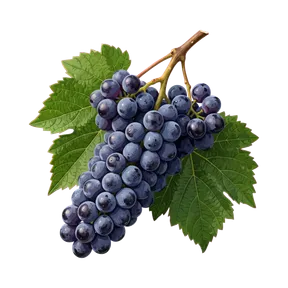
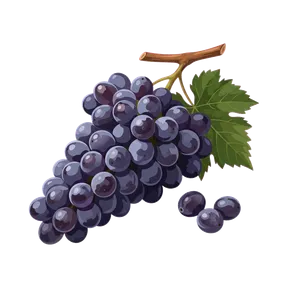
fix: 포도·샤인머스캣 재생성 — 96px에서 고추로 읽히던 실루엣
둘 다 아래로 뾰족해지는 송이라, 96px에서 알이 뭉개지면 실루엣만 남아 꼬투리처럼
보였다. 연두색인 shine-muscat이 특히 그랬다 — 채소 세트에 green-chili가 있어
단순 미감 문제가 아니라 혼동군이었다.

슬롯을 고쳤다(고정 6블록은 동결 유지): 어깨가 넓은 송이 · 알이 개별로 읽히게 ·
낱알 셋을 옆에 · 잎 2장 → 1장. 낱알을 옆에 두는 건 부록 A가 이미 쓰는 장치다
(mandarin의 깐 조각, kiwi의 반쪽). 색은 안 건드려 §6의 구분(흑자+분 vs 연두+투명)이
그대로다. 결과: 96px에서 green-chili·cucumber와 형태가 확실히 갈린다.

**앵커 첨부 경로를 찾았다.** 처음엔 앵커 없이 새 채팅에서 뽑았더니 알마다 검은
외곽선에 3~4단계 평면으로 나왔다 — 프롬프트가 금지한 outline stroke이고, 요구한
20~40단계가 아니라 탈락안이던 인쇄 도판(8~12단계) 쪽이다. 형태는 고쳤지만 화풍이
어긋나 세트가 깨질 뻔했다.

스펙 §5.2는 처음부터 "매 생성마다 앵커를 레퍼런스로 첨부"를 지시했는데 파일 업로드
도구가 막혀 못 했다(파일 입력이 접근성 트리에 없다). osascript로 PNG를 클립보드에
올려 작성창에 붙여넣으면 첨부된다 — peach 앵커를 첨부하고 같은 프롬프트로 다시 뽑으니
외곽선 없이 20~40단계로, 기존 42장과 같은 결이 나왔다. 방법을 노트에 적었다.

함께 기록: 긴 대화(40턴·40장)는 새 프롬프트를 조용히 삼킨다(에디터만 비워지고 응답
없음). 그리고 그런 대화에서는 JS 삽입·클릭이 먹지 않아 클립보드 붙여넣기 + 실제
마우스 클릭으로 바꿨다.

스펙 부록 A·프롬프트 노트의 해당 2행도 새 슬롯으로 갱신했다.

diff --git a/docs/superpowers/notes/2026-08-22-produce-image-prompts.md b/docs/superpowers/notes/2026-08-22-produce-image-prompts.md
@@ -250,8 +250,9 @@ Square 1:1, at least 1024 × 1024, PNG.
 
 ```
 Subject
-one whole bunch of Campbell Early grapes — with the woody stem and two vine leaves. Korean
-market produce, 포도.
+one broad-shouldered bunch of Campbell Early grapes with three loose berries beside it —
+with a short woody stem and one vine leaf tucked behind, the individual round berries
+clearly separated rather than merging into one mass. Korean market produce, 포도.
 
 Style
 High-fidelity vector trace of a photograph — 20 to 40 tonal steps per material, so
@@ -297,8 +298,9 @@ Square 1:1, at least 1024 × 1024, PNG.
 
 ```
 Subject
-one whole bunch of Shine Muscat grapes — with the woody stem and one vine leaf. Korean
-market produce, 샤인머스캣.
+one broad-shouldered bunch of Shine Muscat grapes with three loose berries beside it —
+with a short woody stem and one vine leaf tucked behind, the individual oval berries
+clearly separated rather than merging into one mass. Korean market produce, 샤인머스캣.
 
 Style
 High-fidelity vector trace of a photograph — 20 to 40 tonal steps per material, so
@@ -3252,3 +3254,20 @@ Square 1:1, at least 1024 × 1024, PNG.
 - 새 채팅엔 이전 이미지 문맥이 없다. 파일 업로드가 도구로 안 되므로(파일 입력이
   접근성 트리에 없다) **해당 배치의 앵커를 첫 장으로 한 번 생성해** 대화 안에 화풍
   기준을 세웠다. 수산·축산 모두 이 방식으로 기존 장들과 같은 결이 나왔다.
+- **다만 정석은 클립보드 첨부다** (2026-09-04에 뚫렸다). 스펙 §5.2가 처음부터 지시한
+  "매 생성마다 앵커를 레퍼런스 이미지로 첨부"를 이렇게 하면 된다:
+
+  ```bash
+  osascript -e 'set the clipboard to (read (POSIX file "/절대/경로/peach.png") as «class PNGf»)'
+  ```
+
+  작성창을 클릭하고 `cmd+V`로 붙이면 첨부되고, 이어서 프롬프트 텍스트를 또 `cmd+V`로
+  붙인다(맨 앞에 §5.2의 "Match the flattening level…" 문장). **효과가 실측으로 확인됐다** —
+  포도·샤인머스캣을 앵커 없이 새 채팅에서 뽑았더니 알마다 검은 외곽선에 3~4단계 평면으로
+  나와 탈락안이던 인쇄 도판 쪽으로 흘렀고, 같은 프롬프트를 `peach` 앵커 첨부로 다시 뽑으니
+  20~40단계·외곽선 없음으로 기존 42장과 같은 결이 나왔다.
+- **작성창 조작은 JS가 아니라 실제 입력으로 한다.** 긴 대화에서는 `document.execCommand`
+  삽입과 `button.click()`이 먹지 않는 경우가 있다(에디터만 비워지고 전송이 안 된다).
+  클립보드 붙여넣기 + 실제 마우스 클릭은 안정적이다.
+- **한 대화의 수명이 있다.** 40턴·40장이 된 과일 대화는 새 프롬프트를 조용히 삼켰다 —
+  전송해도 에디터만 비워지고 응답이 없다. 배치가 길어지면 대화를 나눈다.

diff --git a/docs/superpowers/specs/2026-08-22-produce-image-assets-design.md b/docs/superpowers/specs/2026-08-22-produce-image-assets-design.md
@@ -484,8 +484,8 @@ A가 가장 낮지만 "가격이 자기 행을 갖는" B 계열을 택했고, B-
 | `korean-melon` | 참외 | two whole Korean melons, one standing and one lying | with shallow white longitudinal furrows and a small dry stem scar | vivid canary-yellow skin with ten white furrows; matte, not glossy |
 | `apple` | 사과 | two whole apples, one upright and one tilted | with a short woody stem and one attached leaf | deep red skin streaked with yellow-green striations and pale lenticel flecks |
 | `pear` | 배 | two whole Korean pears, round rather than tapered | with a short stem and a wide sunken calyx | russet golden-brown skin densely freckled with pale lenticels |
-| `grape` | 포도 | one whole bunch of Campbell Early grapes | with the woody stem and two vine leaves | near-black purple berries under a dusty pale bloom; leaves deep green |
-| `shine-muscat` | 샤인머스캣 | one whole bunch of Shine Muscat grapes | with the woody stem and one vine leaf | translucent yellow-green berries, glossy, no bloom |
+| `grape` | 포도 | one broad-shouldered bunch of Campbell Early grapes with three loose berries beside it | with a short woody stem and one vine leaf tucked behind, the individual round berries clearly separated rather than merging into one mass | near-black purple berries under a dusty pale bloom; leaves deep green |
+| `shine-muscat` | 샤인머스캣 | one broad-shouldered bunch of Shine Muscat grapes with three loose berries beside it | with a short woody stem and one vine leaf tucked behind, the individual oval berries clearly separated rather than merging into one mass | translucent yellow-green berries, glossy, no bloom |
 | `mandarin` | 감귤 | three whole mandarins and one peeled segment | with two attached leaves on the top fruit | bright orange dimpled skin; the segment a lighter translucent orange |
 | `sweet-persimmon` | 단감 | two whole sweet persimmons, flat-round rather than pointed | with the four-lobed calyx on top | orange-vermilion skin, smooth and slightly waxy; calyx dry sage-brown |
 | `kiwi` | 참다래 | two whole kiwifruit and one cut half | with the cut half showing the pale radial core and black seed ring | matte fuzzy russet-brown skin; interior vivid lime-green with a white core |
